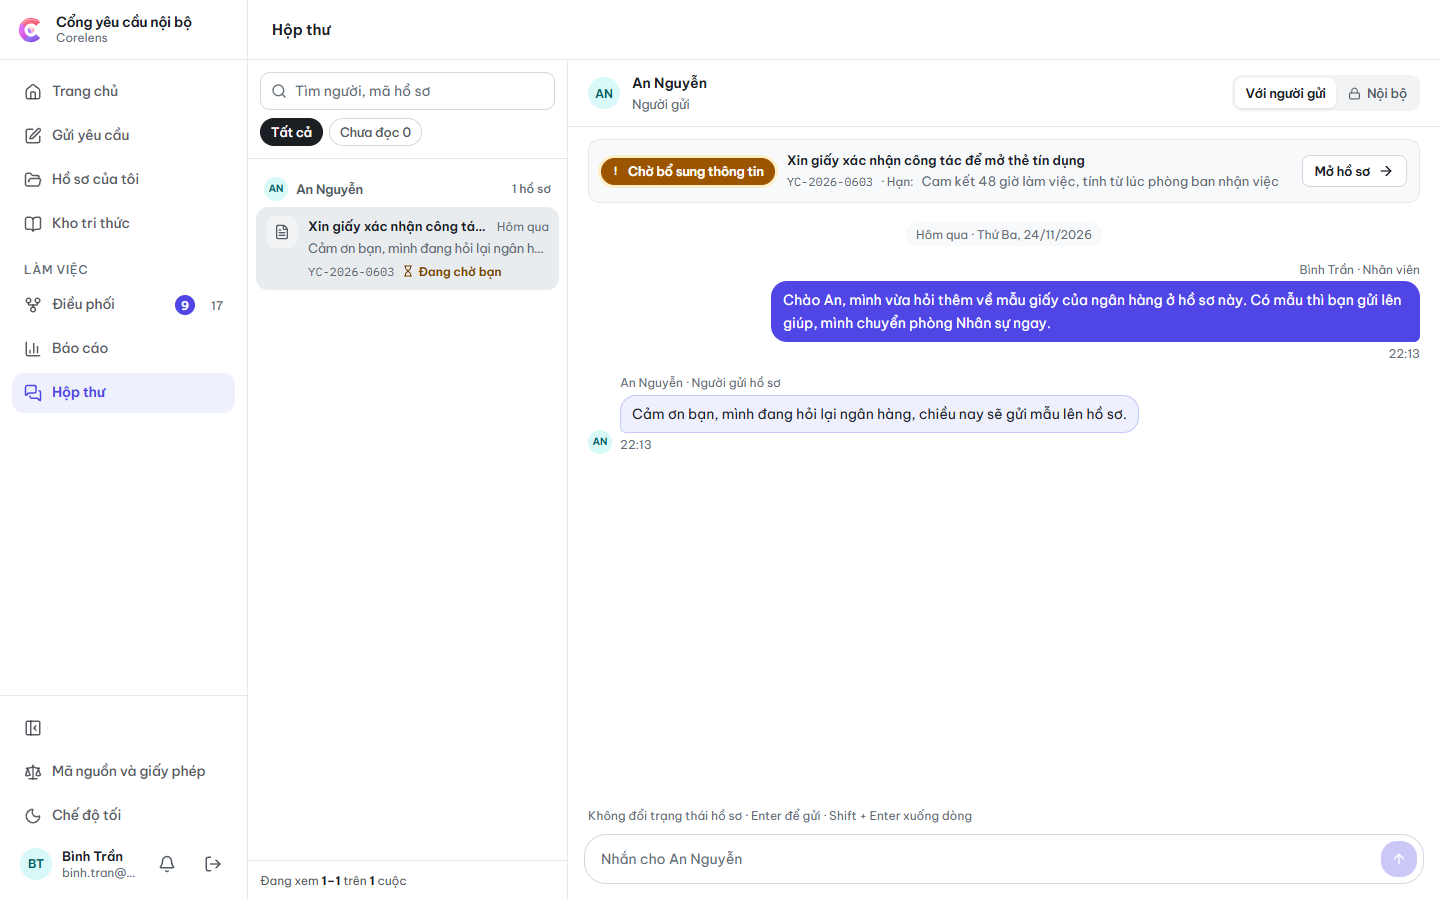
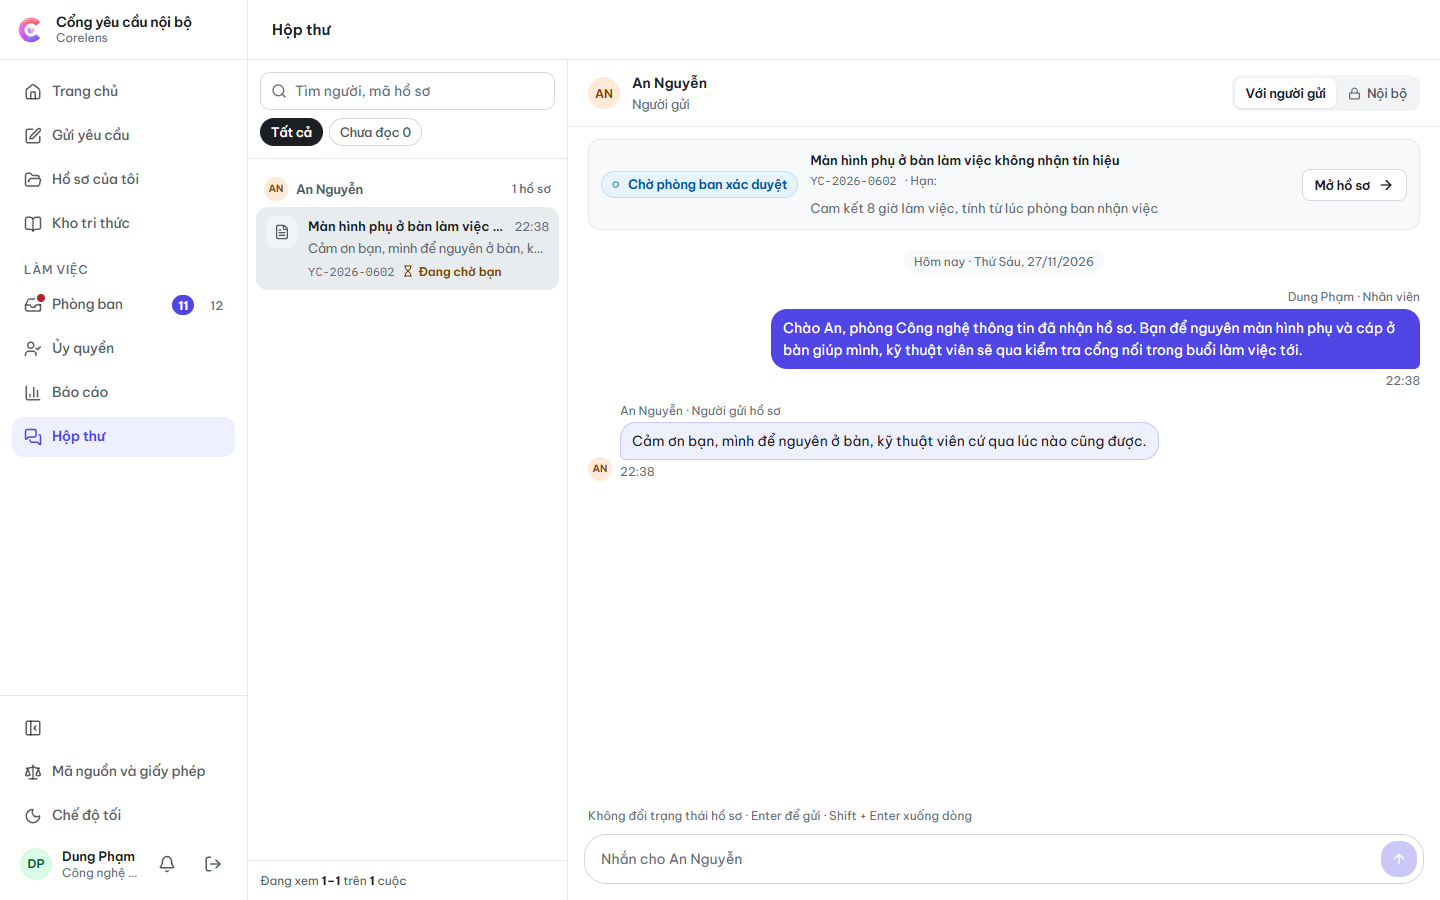
chore(release): nhật ký thay đổi, sổ trạng thái, ảnh cho v2.0.0
Mục 2.0.0 sinh bằng git-cliff trên lịch sử origin/main sau PR phát
hành #572; số commit bỏ qua 138 bằng 139 merge commit trừ một, khớp
công thức. Tệp VERSION lên 2.0.0. Sổ trạng thái ghi đợt bố cục mới
26–27/11 (PR #567, #569, #570, #571); trang phát hành thêm dòng
v2.0.0. Ảnh trang tài liệu chụp lại trên bản này, thêm ảnh bảng
Kanban của điều phối viên.

diff --git a/docs/PROJECT_STATE.md b/docs/PROJECT_STATE.md
@@ -14,20 +14,20 @@
 
 | Mục | Giá trị |
 |---|---|
-| Cập nhật lần cuối | 2026-11-26 |
-| Phiên bản hiện tại | **`v1.8.1`** (26/11) — hoàn thiện sau hai lượt test tay: logo Corelens cho cổng, tài liệu và màn đăng nhập; số phiên bản một nguồn (tệp `VERSION`); biểu mẫu gửi không cho qua bước 2 khi thiếu trường bắt buộc; gợi ý hồ sơ tương tự gộp trùng, có ô *Cách giải quyết*; trang hồ sơ đã đóng nói đúng; khuyến nghị cải tiến nhắc đúng vai, luôn có câu cho điểm nghẽn lớn (PR #553, #554, #558, #562). **`v1.8.0`** (25/11) — Giai đoạn 6 đợt tám: khóa trùng lặp `Idempotency-Key` cho lệnh lõi, nhật ký kiểm toán truy cập dữ liệu cá nhân, README gọn, kho tri thức chịu được gói ngôn ngữ hỏng, ngăn xem nhanh không che bảng, trang *Mã nguồn và giấy phép*, dữ liệu trình diễn đọc như doanh nghiệp thật, tên hiển thị Corelens ở mọi chỗ người dùng thấy (PR #532, #533, #536, #537, #542, #543, #544). **`v1.7.0`** (23/11) — Giai đoạn 6 đợt bảy: thao tác hàng loạt trên hàng đợi điều phối, đánh giá mức hài lòng khi người gửi xác nhận đạt kèm ba biểu đồ theo phòng, nhãn dòng thời gian đúng cạnh đã đi (PR #524, #525, #527). **`v1.6.0`** (23/11) — Giai đoạn 6 đợt sáu: bước lệch quy trình trên trang hồ sơ, khả năng tiếp cận WCAG 2.1 AA, API lõi trả lý do cạnh không đi được, kiểm thử dựa trên tính chất cho máy trạng thái (PR #515, #517, #518, #519). **`v1.5.1`** (19/11) — bản vá sau khi đổi tên dự án: hướng dẫn cài trong README khớp tên tệp nén mới `corelens-<phiên bản>`. **`v1.5.0`** (19/11) — Giai đoạn 6 đợt năm: webhook không bỏ sót sự kiện, xuất XES, ba biểu đồ mới trên bảng điều khiển, từ điển dữ liệu sinh tự động, tìm trong mô tả, thẻ gợi ý kèm hồ sơ tương tự (PR #506, #508). `dev` trùng `main` về nội dung |
+| Cập nhật lần cuối | 2026-11-27 |
+| Phiên bản hiện tại | **`v2.0.0`** (27/11) — bản dự thi: trang hồ sơ đưa khung thao tác lên đầu cột chính, ngăn xem nhanh thành bản tóm tắt, trang người gửi hai cột; câu chữ và tên vai dễ hiểu hơn (tên vai nằm trong dữ liệu); dạng bảng Kanban cho hàng đợi điều phối, dùng chung cột và thẻ với buồng lái phòng ban; màn Hệ thống hai cột, tầng nền chế độ tối tách rõ; sơ đồ kiến trúc trong README (PR #567, #569, #570, #571). **`v1.8.1`** (26/11) — hoàn thiện sau hai lượt test tay: logo Corelens cho cổng, tài liệu và màn đăng nhập; số phiên bản một nguồn (tệp `VERSION`); biểu mẫu gửi không cho qua bước 2 khi thiếu trường bắt buộc; gợi ý hồ sơ tương tự gộp trùng, có ô *Cách giải quyết*; trang hồ sơ đã đóng nói đúng; khuyến nghị cải tiến nhắc đúng vai, luôn có câu cho điểm nghẽn lớn (PR #553, #554, #558, #562). **`v1.8.0`** (25/11) — Giai đoạn 6 đợt tám: khóa trùng lặp `Idempotency-Key` cho lệnh lõi, nhật ký kiểm toán truy cập dữ liệu cá nhân, README gọn, kho tri thức chịu được gói ngôn ngữ hỏng, ngăn xem nhanh không che bảng, trang *Mã nguồn và giấy phép*, dữ liệu trình diễn đọc như doanh nghiệp thật, tên hiển thị Corelens ở mọi chỗ người dùng thấy (PR #532, #533, #536, #537, #542, #543, #544). **`v1.7.0`** (23/11) — Giai đoạn 6 đợt bảy: thao tác hàng loạt trên hàng đợi điều phối, đánh giá mức hài lòng khi người gửi xác nhận đạt kèm ba biểu đồ theo phòng, nhãn dòng thời gian đúng cạnh đã đi (PR #524, #525, #527). **`v1.6.0`** (23/11) — Giai đoạn 6 đợt sáu: bước lệch quy trình trên trang hồ sơ, khả năng tiếp cận WCAG 2.1 AA, API lõi trả lý do cạnh không đi được, kiểm thử dựa trên tính chất cho máy trạng thái (PR #515, #517, #518, #519). **`v1.5.1`** (19/11) — bản vá sau khi đổi tên dự án: hướng dẫn cài trong README khớp tên tệp nén mới `corelens-<phiên bản>`. **`v1.5.0`** (19/11) — Giai đoạn 6 đợt năm: webhook không bỏ sót sự kiện, xuất XES, ba biểu đồ mới trên bảng điều khiển, từ điển dữ liệu sinh tự động, tìm trong mô tả, thẻ gợi ý kèm hồ sơ tương tự (PR #506, #508). `dev` trùng `main` về nội dung |
 | Giai đoạn | **Giai đoạn 6 — hoàn thiện dự thi** (16–29/11, issue gốc #383). Nền tảng lõi đã lên **Mức 2**: động cơ luồng công việc chạy nhiều quy trình, quy trình mẫu thứ hai thuần dữ liệu (#376). Thêm lưu trữ lạnh và phả hệ dữ liệu, cập nhật thời gian thực, webhook, siết realm mẫu; README tiếng Anh, linter và kịch bản giao diện trong tích hợp liên tục. Còn lại: công khai kho, đăng trang tài liệu, chuẩn bị trình diễn. Giai đoạn 2 tới 5 đã khép |
-| Mốc công việc | **Giai đoạn 6 - Hoàn thiện dự thi** (số 18, hạn 29/11): chín issue đóng với `v1.1.0`, năm với `v1.2.0`, chín với `v1.3.0`, mười một với `v1.4.0`, mười hai với `v1.5.0`, bốn với `v1.6.0`, ba với `v1.7.0`, tám với `v1.8.0`, sáu với `v1.8.1`; #381 (đăng trang tài liệu) đóng 19/11 khi kho công khai; issue gốc #383 đóng khi mọi việc con xong |
+| Mốc công việc | **Giai đoạn 6 - Hoàn thiện dự thi** (số 18, hạn 29/11): chín issue đóng với `v1.1.0`, năm với `v1.2.0`, chín với `v1.3.0`, mười một với `v1.4.0`, mười hai với `v1.5.0`, bốn với `v1.6.0`, ba với `v1.7.0`, tám với `v1.8.0`, sáu với `v1.8.1`, ba với `v2.0.0`; #381 (đăng trang tài liệu) đóng 19/11 khi kho công khai; issue gốc #383 đóng khi mọi việc con xong |
 | Trạng thái kho mã | **Công khai** từ 19/11 tại https://github.com/AlaVox-lab/corelens (đổi tên từ `dx-os-lab`, link cũ tự chuyển hướng); trang tài liệu https://alavox-lab.github.io/corelens/ |
 | Có mã nguồn ứng dụng chưa | **Có.** `backend/` FastAPI và `frontend/` Next.js với trang chủ theo việc cần làm, cổng người gửi, buồng lái điều phối, buồng lái phòng ban, hộp thư chung, màn Ủy quyền, mục Báo cáo (bảng điều khiển và màn Quy trình thực tế), màn Hệ thống và màn Cấu hình quy trình cho quản trị viên; `services/khai-pha/` là dịch vụ khai phá tách riêng. Cụm mặc định gồm **tám dịch vụ** (thêm cổng API từ `v1.0.0`); bốn hồ sơ Compose tùy chọn: `tri-tue` (mô hình), `quet-tep` (ClamAV), `thu-thu` (Mailpit), `tri-thuc` (kho tri thức Wiki.js). Hai quy trình mẫu: *yêu cầu nội bộ* (**11 trạng thái, 32 cạnh**) và *đề xuất mua vật tư* rẽ nhánh theo số tiền — dưới ngưỡng một cấp duyệt, từ ngưỡng hai cấp (#376, #397) |
-| Issue đang mở | **7** (mốc 18) sau `v1.8.1` — 0 `P0`, 3 `P1`, 0 `P2`, 4 `P3`. Từ `v1.5.0` chỉ làm issue tăng độ hoàn thiện của thứ đã có (mục *Việc tiếp theo*) |
+| Issue đang mở | **5** sau `v2.0.0` — 0 `P0`, 2 `P1`, 0 `P2`, 3 `P3`, đều không làm trước kỳ thi. Từ `v1.5.0` chỉ làm issue tăng độ hoàn thiện của thứ đã có (mục *Việc tiếp theo*) |
 | Đội | **Nguyễn Phạm Đại Phúc** (`@phuctiensinh`) tham gia từ 16/11 tới 20/11; các đợt hai tới năm bên dưới là phần việc của bạn. Từ 20/11 navigator nhận lại các issue đang mở |
 | Quyết định kiến trúc đã chốt | **10** — Keycloak `H` · SeaweedFS `core` · Superset `D` · tự viết engine `P` · ranh giới máy trạng thái (ADR-0005) · Wiki.js kho tri thức `H` tùy chọn (ADR-0006, chờ giảng viên xác nhận) · PM4Py trong dịch vụ khai phá tách riêng (ADR-0007) · llama.cpp, mô hình cục bộ và pgvector (ADR-0008) · lưu giữ và xóa dữ liệu cá nhân (ADR-0009) · **Apache APISIX làm cổng API `core` (ADR-0010, navigator chấp nhận 15/11)** |
 | Bản ghi chờ duyệt | **0** bản ghi *Đề xuất*. ADR-0006 navigator chấp nhận 14/11 theo cùng nguyên tắc giảng viên đã xác nhận cho ADR-0007, **chờ giảng viên xác nhận riêng** |
 | Còn chờ khảo sát | **0** — #47 khép mảng khảo sát cuối cùng ngày 10/10 |
-| Bộ kiểm thử tự động | **1080 bài** pytest ở dịch vụ ứng dụng và **213 bài** ở dịch vụ khai phá (cụm thử dựng sạch, 26/11), gồm một bài kiểm thử dựa trên tính chất cho máy trạng thái bằng Hypothesis (#441), trên PostgreSQL, Keycloak và cổng API thật, tự chạy trên mỗi pull request cùng linter ruff và eslint (#382). Kịch bản Playwright `e2e/`: **335 bài đạt, 21 bỏ qua có chủ đích** ở lượt trọn bộ ngày 26/11 trên cụm thử (Edge, bốn cấu hình); đợt sáu thêm kịch bản quét khả năng tiếp cận bằng axe trên màn chính của từng vai (#435) và kịch bản bước lệch trên trang hồ sơ (#448); từ #382 chạy trọn trên tích hợp liên tục ở mỗi pull request vào `main`. Lần dựng lại gần nhất từ tệp phát hành: `dx-os-lab-1.4.0.tar.gz` ngoài thư mục mã, đường dẫn có dấu cách (19/11, #414). Công cụ kiểm chứng ở `scripts/kiem_chung/` (#249) |
+| Bộ kiểm thử tự động | **1084 bài** pytest ở dịch vụ ứng dụng và **213 bài** ở dịch vụ khai phá (cụm thử, 26/11, sau #561), gồm một bài kiểm thử dựa trên tính chất cho máy trạng thái bằng Hypothesis (#441), trên PostgreSQL, Keycloak và cổng API thật, tự chạy trên mỗi pull request cùng linter ruff và eslint (#382). Kịch bản Playwright `e2e/`: **342 bài đạt** ở lượt trọn bộ ngày 26/11 trên cụm thử (Edge, bốn cấu hình), rồi thêm kịch bản cho bảng Kanban điều phối và màn Hệ thống (#560, #561); đợt sáu thêm kịch bản quét khả năng tiếp cận bằng axe trên màn chính của từng vai (#435) và kịch bản bước lệch trên trang hồ sơ (#448); từ #382 chạy trọn trên tích hợp liên tục ở mỗi pull request vào `main`. Lần dựng lại gần nhất từ tệp phát hành: `dx-os-lab-1.4.0.tar.gz` ngoài thư mục mã, đường dẫn có dấu cách (19/11, #414). Công cụ kiểm chứng ở `scripts/kiem_chung/` (#249) |
 | Tổng bộ nhớ toàn cụm | **Cụm mặc định tám dịch vụ, khoảng 1,7 GiB** (số 12/11 là 1,66 GiB cho bảy dịch vụ; cổng API thêm **50 MiB**, đo 15/11 sau lượt e2e). Hồ sơ tùy chọn: `quet-tep` (ClamAV) **+1,03 GiB**, `thu-thu` (Mailpit) **+24 MiB**, `tri-thuc` (Wiki.js) **+276 MiB**. `tri-tue` (hai mô hình) **+1,88 GiB**, đo 19/11 trên cụm thử. Ảnh dịch vụ khai phá **982 MB**, ảnh cổng API **638 MB** |
-| Số ngày còn lại tới chấm kho mã | **11 ngày** (07/12/2026); hạn gửi bài **17:00 ngày 06/12** |
+| Số ngày còn lại tới chấm kho mã | **10 ngày** (07/12/2026); hạn gửi bài **17:00 ngày 06/12** |
 | Số ngày còn lại tới khi công bố đề thi | Đã công bố trong tháng 11/2026 |
 
 **Một câu tóm tắt trạng thái**: nhân viên gửi yêu cầu → điều phối viên phân loại, đặt
@@ -493,9 +493,8 @@ tác — hộp thư mở rộng lời nhắn của #128, không đổi engine.
 ### Tuần 9 — Hộp thư trao đổi, trò chuyện nội bộ và giao diện mới
 
 **Thiết kế giao diện trước hộp thư** (navigator đổi thứ tự ngày 05/10): hộp thư cần một khung
-để đặt vào. Đợt thiết kế dùng skill `ui-ux` của evondevKit (MIT) — bản mô tả, hai tới ba
-wireframe mỗi màn, navigator chọn rồi mới dựng; mỗi màn đo bằng công cụ dò của skill ở 1280 và
-375 px, sáng và tối. Ba màn đã dựng:
+để đặt vào. Đợt thiết kế đi theo bản mô tả, hai tới ba wireframe mỗi màn, navigator chọn
+rồi mới dựng; mỗi màn đo bố cục và tương phản ở 1280 và 375 px, sáng và tối. Ba màn đã dựng:
 
 - **Khung thanh bên** có số hồ sơ còn mở từng mục và nút sáng/tối nhớ lựa chọn (#158). Thêm
   `lucide-react` (ISC) cho icon
@@ -1327,11 +1326,32 @@ thành issue và đóng trong một bản vá:
 Không phụ thuộc mới. Một biến môi trường mới (`ACCESS_AUDIT_DEDUP_SECONDS`) có mặc định trong Compose. Nâng cấp bằng
 `up -d --build`; migration `0040`, `0041` chỉ đổi dữ liệu và có điều kiện.
 
+### Tuần 21 (tiếp, 26–27/11) — bố cục mới và `v2.0.0`
+
+Một lượt rà giao diện `v1.8.1` theo từng màn; navigator duyệt bản phác bố cục và câu chữ rồi mới sửa mã:
+
+- **Trang hồ sơ, ngăn xem nhanh, câu chữ, tên vai** (#561, PR #567): trang hồ sơ của nhân viên đưa khung thao tác lên
+  đầu cột chính, thẻ hạn đi kèm; ngăn xem nhanh thành bản tóm tắt, vẫn đọc được mô tả; trang người gửi hai cột, trên điện
+  thoại thao tác đứng trước; ô gợi ý xếp hai cột khi khung đủ rộng; chấm màu theo loại yêu cầu; nút "Hủy thao tác" thay
+  "Thôi", bỏ các dòng gợi ý lặp lại. Tên vai trong dữ liệu đổi thành *Người gửi*, *Điều phối viên*, *Trưởng phòng*,
+  *Người xử lý* (migration `0042` có điều kiện, mã vai không đổi)
+- **Dạng bảng cho hàng đợi điều phối** (#560, PR #569): `/dieu-phoi/bang` chia cột theo trạng thái dịch vụ trả về, chỉ
+  hiện cột có hồ sơ; cột và thẻ tách thành thành phần dùng chung với bảng của phòng ban; chuyển qua lại giữ nguyên ô tìm,
+  bộ lọc và cách xếp
+- **Màn Hệ thống và tầng nền tối** (PR #571, phần còn lại của #561): thẻ tình trạng trên trang chủ quản trị mỗi dịch vụ
+  ổn một dòng; màn Hệ thống lưới hai cột, nhật ký truy cập trải hết bên dưới; bốn tầng nền chế độ tối tách xa nhau hơn,
+  chữ phụ vẫn đạt 4,5:1
+- **Sơ đồ kiến trúc trong README** (#566, PR #570): bốn tệp SVG theo thứ tiếng và chế độ sáng tối, mỗi ô ghi không gian
+  H-P-D-I; phần đầu README căn giữa. Ảnh trang tài liệu chụp lại trên bản này, thêm ảnh bảng Kanban điều phối
+
+Không phụ thuộc mới, không biến môi trường mới. Nâng cấp bằng `up -d --build`; migration `0042` chỉ đổi nhãn vai khi nhãn
+còn là giá trị mẫu cũ.
+
 ---
 
 ## Đang làm
 
-Sau `v1.8.1`: đợt bố cục trang hồ sơ, ngăn xem nhanh và câu chữ (#561), rồi dạng bảng cho hàng đợi điều phối (#560), hướng tới `v2.0.0` (mục *Việc tiếp theo*).
+Sau `v2.0.0`: chuẩn bị phần trình diễn và hồ sơ gửi bài (mục *Việc tiếp theo*).
 
 ---
 
@@ -1344,8 +1364,7 @@ Sau `v1.8.1`: đợt bố cục trang hồ sơ, ngăn xem nhanh và câu chữ (
 2. **Đo lại sau đợt cuối**: dung lượng ổ đĩa của cụm (trang Cài đặt và Bắt đầu nhanh còn ghi 6 GB), cấu hình máy tối
    thiểu; cập nhật bộ nhớ hồ sơ `tri-tue` ở trang tài liệu theo số đo 19/11
 3. **Issue còn mở**: không làm #425 (sau kỳ thi), #430, #432 (ngược quyết định đã chốt), #451, #481 (hoãn). Issue gốc
-   #383 đã khép cùng `v1.8.0`. Trước `v2.0.0`: #561 (bố cục trang hồ sơ, ngăn xem nhanh, câu chữ, tên vai),
-   rồi #560 (dạng bảng cho hàng đợi điều phối)
+   #383 đã khép cùng `v1.8.0`; #560, #561, #566 khép cùng `v2.0.0`
 4. **Dọn dữ liệu cũ của cụm thử cách ly**: vài trăm hồ sơ còn lại, kể cả dữ liệu trình diễn đã nạp, làm khoảng mười bài
    đọc theo trang hay theo lô đỏ khi chạy trên cụm thử dùng lại (cụm sạch của tích hợp liên tục vẫn xanh)
 5. **Issue cho người mới** (nhãn `good first issue`) — kho đã công khai

diff --git a/docs-site/src/content/docs/tham-khao/phat-hanh.md b/docs-site/src/content/docs/tham-khao/phat-hanh.md
@@ -14,6 +14,7 @@ lịch sử commit.
 
 | Bản | Nội dung chính |
 |---|---|
+| `v2.0.0` | Trang hồ sơ đưa khung thao tác lên đầu cột chính, ngăn xem nhanh thành bản tóm tắt, trang người gửi hai cột; câu chữ và tên vai dễ hiểu hơn; dạng bảng Kanban cho hàng đợi điều phối, chuyển qua lại giữ nguyên bộ lọc; màn Hệ thống hai cột, chế độ tối tách rõ các tầng nền; sơ đồ kiến trúc trong README |
 | `v1.8.1` | Logo Corelens ở cổng, trang tài liệu và màn đăng nhập; số phiên bản đọc từ một nguồn; biểu mẫu gửi không cho qua bước 2 khi thiếu trường bắt buộc; gợi ý hồ sơ tương tự gộp trùng, có ô *Cách giải quyết* mà người xử lý ghi khi hoàn thành; trang hồ sơ đã đóng nói đúng; nút chính theo bước chính trong dữ liệu; khuyến nghị cải tiến nhắc đúng vai và luôn có câu cho điểm nghẽn lớn |
 | `v1.8.0` | Lệnh tạo hồ sơ và chuyển trạng thái của lõi nhận khóa `Idempotency-Key`, gửi lại cùng khóa nhận đúng kết quả cũ; nhật ký kiểm toán chỉ ghi thêm cho mỗi lần xem hồ sơ, liên hệ, tệp của người khác và xuất nhật ký; ngăn xem nhanh không che bảng hồ sơ; trang *Mã nguồn và giấy phép* ở chân thanh bên thay các dòng AGPL chen giữa nội dung; dữ liệu trình diễn đọc như doanh nghiệp thật, có số cho hai biểu đồ đo gợi ý; mọi chữ người dùng thấy mang tên Corelens; README gọn, kho tri thức chịu được gói ngôn ngữ hỏng |
 | `v1.7.0` | Điều phối viên chọn nhiều hồ sơ để phân loại hay chuyển phòng cả lô, mỗi hồ sơ vẫn một lần chuyển và một dòng nhật ký riêng, hồ sơ bị chặn báo riêng; người gửi chấm mức hài lòng 1–5 kèm nhận xét khi xác nhận đạt, bảng điều khiển thêm điểm trung bình, tỷ lệ được chấm theo phòng và phân bố điểm; dòng thời gian ghi đúng nhãn bước khi một cặp trạng thái có cả bước người lẫn bước hệ thống |
